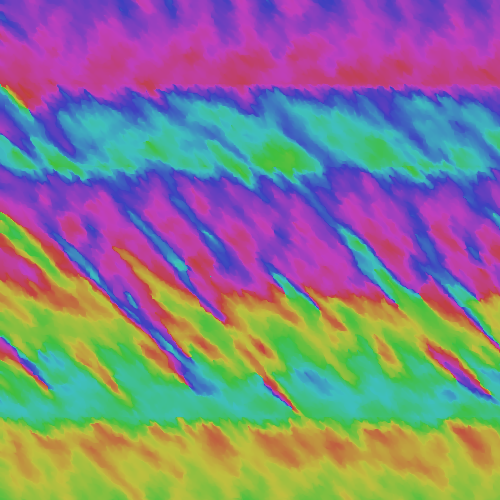
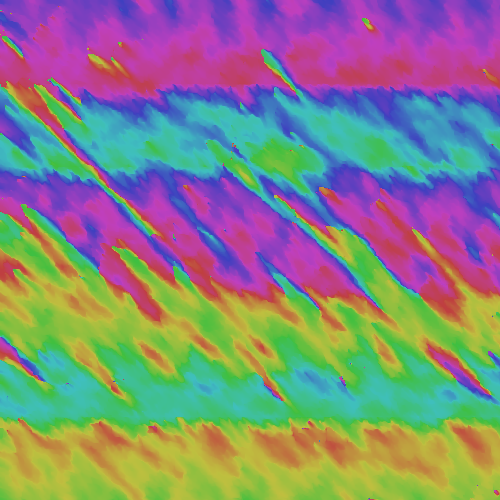
Added height into wind calculation
Not the result I expected. These diagonals are weird

diff --git a/src/main/java/me/alexng/worldGen/pipeline/pipes/WindPipeWorder.java b/src/main/java/me/alexng/worldGen/pipeline/pipes/WindPipeWorder.java
@@ -58,7 +58,9 @@ public class WindPipeWorder implements PipeWorker {
                 int originDirection = (int) (Main.shiftAngle(Main.vectorToAngle(new Vector2f(i, j)), -1 / 16f + 0.5f) / 8f);
                 int pressureDirection = (int) (Main.shiftAngle(Main.vectorToAngle(p.direction), -1 / 16f) / 8f);
                 if (originDirection == pressureDirection) {
-                    float pressureStrength = p.magnitude;
+                    // 0.5 as I'm using max(0, height)
+                    float heightScalar = (NoiseHelper.normalize(Math.max(0, height[index])) - localHeight);
+                    float pressureStrength = p.magnitude + heightScalar;
                     wind.direction.x += p.direction.x * pressureStrength;
                     wind.direction.y += p.direction.y * pressureStrength;
                 }
